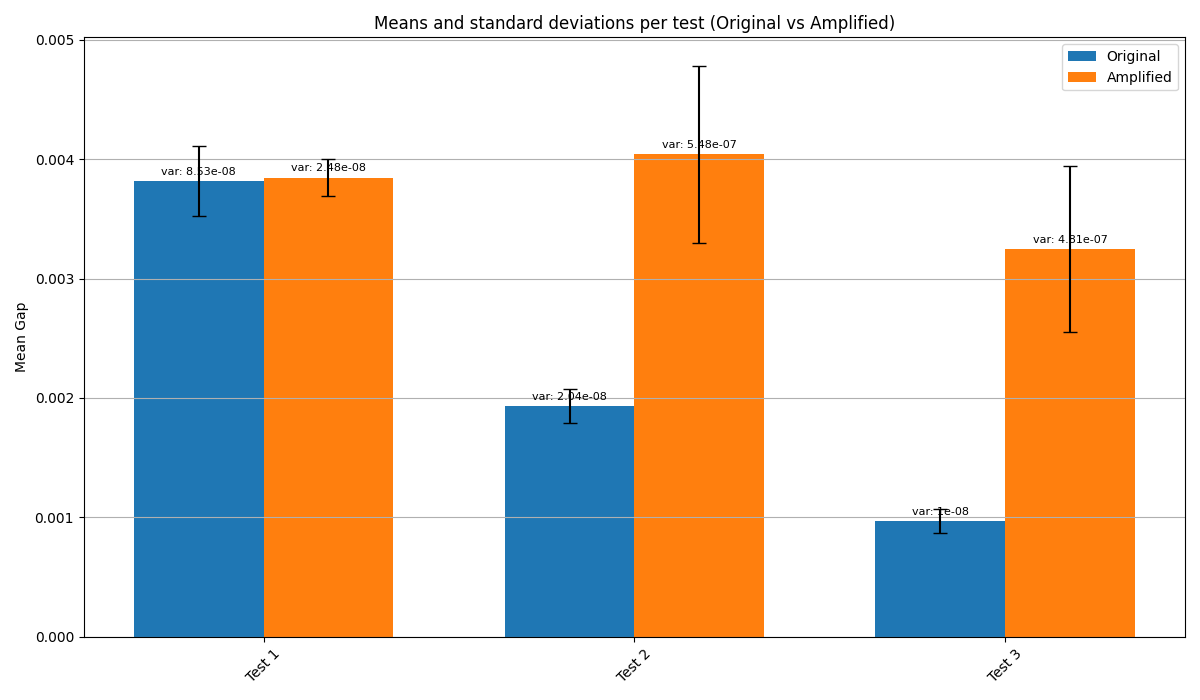
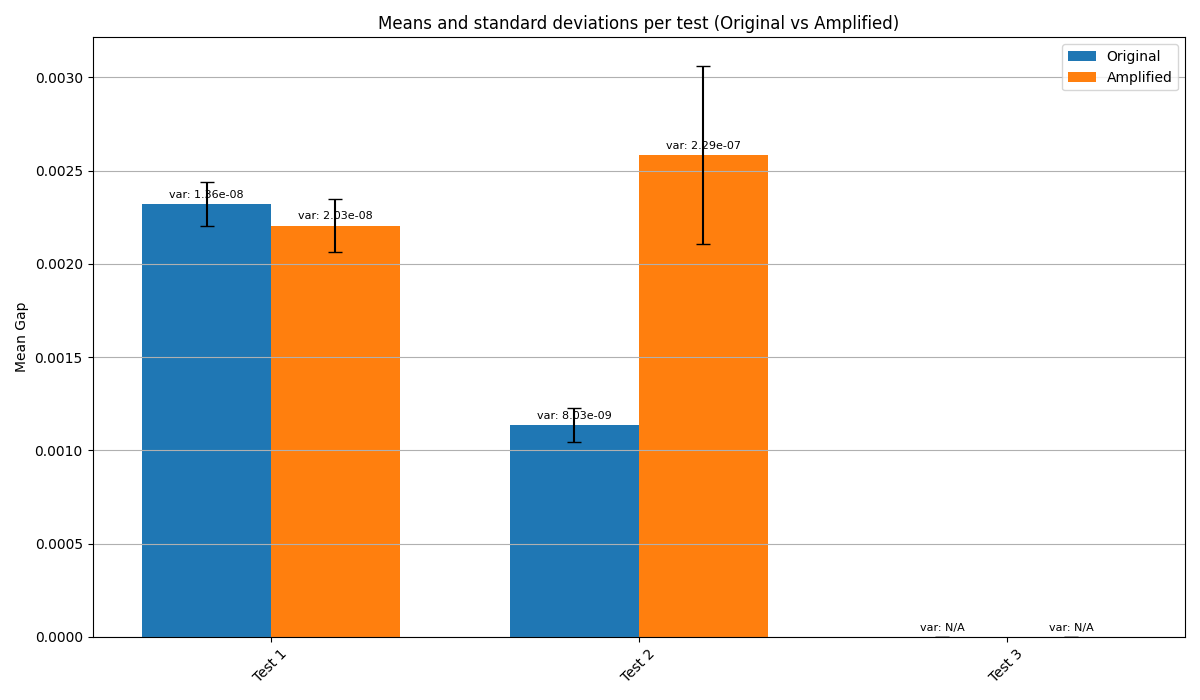
fixed runtime error on Tester

diff --git a/test/e2e/test_gap_amplification_soundness.cpp b/test/e2e/test_gap_amplification_soundness.cpp
@@ -21,32 +21,33 @@ std::vector<std::function<void()>> test_cases = {
         
     //     std::cout << "Approximated amplified gap: " << 1 - amplified_soundness << std::endl;
     // },
-    // // Test 1: Simple non-satisfiable CSP
-    // []() -> void {
-    //     pcp::BitPCP bitpcp(2);
-    //     bitpcp.add_constraint(1, 0, constraint::BitConstraint::EQUAL); 
-    //     bitpcp.add_constraint(1, 0, constraint::BitConstraint::NOTEQUAL); // make it unsatisfiable
+    // Test 1: Simple non-satisfiable CSP
+    []() -> void {
+        pcp::BitPCP bitpcp(2);
+        bitpcp.add_constraint(1, 0, constraint::BitConstraint::EQUAL); 
+        bitpcp.add_constraint(1, 0, constraint::BitConstraint::NOTEQUAL); // make it unsatisfiable
 
-    //     pcpp::Tester tester(bitpcp);
-    //     pcp::BitPCP amplified_pcp = tester.buildBitPCP();
+        pcpp::Tester tester(bitpcp);
+        pcp::BitPCP amplified_pcp = tester.buildBitPCP();
 
-    //     double original_soundness = analyzer::approximate_soundness_via_random_subset(bitpcp);
-    //     double amplified_soundness = analyzer::approximate_soundness_via_random_subset(amplified_pcp);
-    //     std::cout << "Approximated original gap: " << 1 - original_soundness << std::endl;
+        double original_soundness = analyzer::approximate_soundness_via_random_subset(bitpcp);
+        double amplified_soundness = analyzer::approximate_soundness_via_random_subset(amplified_pcp);
+        std::cout << "Approximated original gap: " << 1 - original_soundness << std::endl;
         
-    //     std::cout << "Approximated amplified gap: " << 1 - amplified_soundness << std::endl;
-    // },
+        std::cout << "Approximated amplified gap: " << 1 - amplified_soundness << std::endl;
+    },
     // Test 2: Simple non-satisfiable CSP
     []() -> void {
-        pcp::BitPCP bitpcp(100);
-        for (pcp::Variable i = 0; i < 100; ++i) {
+        pcp::BitPCP bitpcp(10);
+        for (pcp::Variable i = 0; i < 10; ++i) {
             bitpcp.set_variable(i, pcp::BitDomain(0, 0, 0, three_csp::Constraint::ENCODED_BINARY));
         }
-        for (pcp::Variable i = 1; i < 100; ++i) {
+        for (pcp::Variable i = 1; i < 10; ++i) {
             bitpcp.add_constraint(i - 1, i, constraint::BitConstraint::EQUAL);
         }
-        bitpcp.add_constraint(99, 0, constraint::BitConstraint::EQUAL); // make it satisfiable
-        pcp::BitPCP amplified_pcp = core::gap_amplification(bitpcp);
+        bitpcp.add_constraint(9, 0, constraint::BitConstraint::EQUAL); // make it satisfiable
+        pcpp::Tester tester(bitpcp);
+        pcp::BitPCP amplified_pcp = tester.buildBitPCP();
         double original_soundness = analyzer::approximate_soundness(bitpcp);
         double amplified_soundness = analyzer::approximate_soundness(amplified_pcp);
         std::cout << "Approximated original gap: " << 1 - original_soundness << std::endl;
@@ -55,16 +56,17 @@ std::vector<std::function<void()>> test_cases = {
     },
     // Test 2: Simple non-satisfiable CSP
     []() -> void {
-        pcp::BitPCP bitpcp(100);
-        for (pcp::Variable i = 0; i < 100; ++i) {
+        pcp::BitPCP bitpcp(10);
+        for (pcp::Variable i = 0; i < 10; ++i) {
             bitpcp.set_variable(i, pcp::BitDomain(0, 0, 0, three_csp::Constraint::ENCODED_BINARY));
         }
-        for (pcp::Variable i = 1; i < 100; ++i) {
+        for (pcp::Variable i = 1; i < 10; ++i) {
             bitpcp.add_constraint(i - 1, i, constraint::BitConstraint::EQUAL);
         }
-        bitpcp.add_constraint(99, 0, constraint::BitConstraint::NOTEQUAL); // make it unsatisfiable
+        bitpcp.add_constraint(9, 0, constraint::BitConstraint::NOTEQUAL); // make it unsatisfiable
 
-        pcp::BitPCP amplified_pcp = core::gap_amplification(bitpcp);
+        pcpp::Tester tester(bitpcp);
+        pcp::BitPCP amplified_pcp = tester.buildBitPCP();
         double original_soundness = analyzer::approximate_soundness(bitpcp);
         double amplified_soundness = analyzer::approximate_soundness(amplified_pcp);
         std::cout << "Approximated original gap: " << 1 - original_soundness << std::endl;

diff --git a/src/pcpp/Tester.cpp b/src/pcpp/Tester.cpp
@@ -129,8 +129,6 @@ pcp::BitPCP Tester::buildBitPCP() {
     std::unordered_map<std::vector<bool>, size_t> used_positions;
     std::vector<std::vector<bool>> used_positions_list;
 
-    used_positions[std::vector<bool>(original_size, 0)] = three_csp.size();
-
     auto add_position = [&](const std::vector<bool>& position) {
         if (used_positions.find(position) == used_positions.end()) {
             used_positions[position] = three_csp.size();
@@ -138,6 +136,8 @@ pcp::BitPCP Tester::buildBitPCP() {
             used_positions_list.push_back(position);
         }
     };
+
+    add_position(std::vector<bool>(original_size, 0));
 
     three_csp.add_variable(hadamard.query(std::vector<bool>(original_size, 0)));
     std::uniform_int_distribution<pcp::Variable> bernoulli(0, 1);
@@ -176,8 +176,8 @@ pcp::BitPCP Tester::buildBitPCP() {
             idx = binary_index_shift[idx];
         }
 
-        std::uniform_int_distribution<size_t> dist(0, used_positions_list.size() - 1);
-        std::vector<bool> position1 = used_positions_list[dist(constants::RANDOM_SEED)];
+        std::uniform_int_distribution<size_t> position_dist(0, used_positions_list.size() - 1);
+        std::vector<bool> position1 = used_positions_list[position_dist(constants::RANDOM_SEED)];
 
         std::vector<bool> position2 = position1;
         position2[idx] = !position2[idx];
@@ -197,12 +197,11 @@ pcp::BitPCP Tester::buildBitPCP() {
     for (size_t _ = 0; _ < constants::LINEARITY_TEST_REPETITION; ++_) {
 
         // only add positions that are already used for better coverage
-        std::uniform_int_distribution<size_t> dist(0, used_positions_list.size() - 1);
+        std::uniform_int_distribution<size_t> position_dist(0, used_positions_list.size() - 1);
 
-        std::vector<bool> position1 = used_positions_list[dist(constants::RANDOM_SEED)];
+        std::vector<bool> position1 = used_positions_list[position_dist(constants::RANDOM_SEED)];
 
-        std::vector<bool> position2 = used_positions_list[dist(constants::RANDOM_SEED)];
-
+        std::vector<bool> position2 = used_positions_list[position_dist(constants::RANDOM_SEED)];
 
         // position3 is the xor sum of position1 and position2
         std::vector<bool> position3(original_size, 0);

diff --git a/include/constants.hpp b/include/constants.hpp
@@ -15,12 +15,12 @@ namespace constants {
 const int CONSTRAINT_COMBINATION_REPETITION = 70;
 const int CONSISTENCY_TEST_REPETITION = 70;
 const int LINEARITY_TEST_REPETITION = 70;
-const int POWERING_RADIUS = 10;
+const int POWERING_RADIUS = 5;
 const int DEGREE = 3;
 #else
-const int CONSTRAINT_COMBINATION_REPETITION = 20;
-const int CONSISTENCY_TEST_REPETITION = 1;
-const int LINEARITY_TEST_REPETITION = 1;
+const int CONSTRAINT_COMBINATION_REPETITION = 10;
+const int CONSISTENCY_TEST_REPETITION = 2;
+const int LINEARITY_TEST_REPETITION = 2;
 const int POWERING_RADIUS = 5;
 const int DEGREE = 3;
 #endif
@@ -28,7 +28,7 @@ const int EXPANDING_COEFFICIENT = 1;
 const unsigned int SAFE_THREAD_NUMBER = 4;
 const pcp::Variable PCPVARIABLE_ONE = 1;
 const int QUERY_SAMPLING_REPETITION = 100;
-const int SUBSET_SIZE = 1000;
+const int SUBSET_SIZE = 100;
 
 const std::function<int(size_t)> DEFAULT_ITERATION_FUNC = [](size_t edge_size) {
     return static_cast<int>(std::ceil(std::log10(edge_size)));

diff --git a/include/analyzer/SoundnessApproximater.hpp b/include/analyzer/SoundnessApproximater.hpp
@@ -14,7 +14,7 @@ const double Tmin = 1e-4;
 // cooling rate
 const double alpha = 0.995;
 // iterations per temperature
-const size_t iter_per_temp = 100000;
+const size_t iter_per_temp = 10000;
 // Map from constraint type to possible values in its domain
 const std::map<three_csp::Constraint, std::vector<pcp::BitDomain>> possible_values = {
     {

diff --git a/notes/extension.md b/notes/extension.md
@@ -1,0 +1,39 @@
+# Derandomized Parallel Repetition
+
+Take a HDX, take each clique of size $k$ within HDX as a single node, and take the constraints within the clique as a mono constraint. For each pair of cliques, if their intersection of node is greater $\sqrt k$, then we have an edge connecting them to check consistency. This results in a reduction of soundness from high constant to low constant.
+
+# Routing Protocol 
+
+Fix graph $G$ and an arbitrary permutation $\pi$ on $V(G)$.
+
+Vertex $u$ want to send data to $\pi(u)$ using only edges on $G$
+
+## Routing Protocol to PCPs
+
+
+### regular 2-CSP to 2-CSP on regular bipartite graph
+
+We first reduce input 2-CSP graph $G''$ to a regular bipartite graph $G'$ while preserving gap.
+
+Every vertex $u$ in $G''$ is split into two vertices $(u, 1)\in L$ and $(u, 2) \in R$
+
+For every edge $(u, v)$ in the original graph, we add edge $((u, 1), (v, 2))$ in new graph
+
+We also create enforcement constraints $((u, 1), (u, 2))$ for every vertex $u$ in the original graph.
+
+### From 2-CSP on regular bipartite graph to 2-CSP on arbitrary graph with fault-tolerant routing protocol
+
+We can partition original graph $H$, a $2k$-regular graphs into $2k$ perfect matchings.
+
+![](routing.png)
+
+Suppose we want to embed into graph $G$, a graph with fault tolerant routing protocol.
+
+First, the vertices in $H$ are embedded into $G$. For a node $u$ in $G$, the alphabet would store the value which correspond to $H$, and a table of $2k$ rows where each row stores information with respect to the $i^\text{th}$ perfect matching in $H$. 
+
+Let $T$ be the number of rounds we simulate for the protocol where $T = O(\log |V|)$
+
+For each row in the table of $u$, it would store the message it received from its neighbor $v$ for all time $t\le T$ for the specific perfect matching which is executed as a routing problem via its fault tolerant routing protocol.
+
+### Folding
+For the original constraints $\phi(u, v)$, it is checked within the new graph $G$ as follow: In the corresponding perfect matching where $u$ is matched with $v$, $v$ must have received the value of $u$ at some time $t \le T$ when the routing is complete. We simply check if the value received and the value of $v$ stored satisfies the original constraint.
